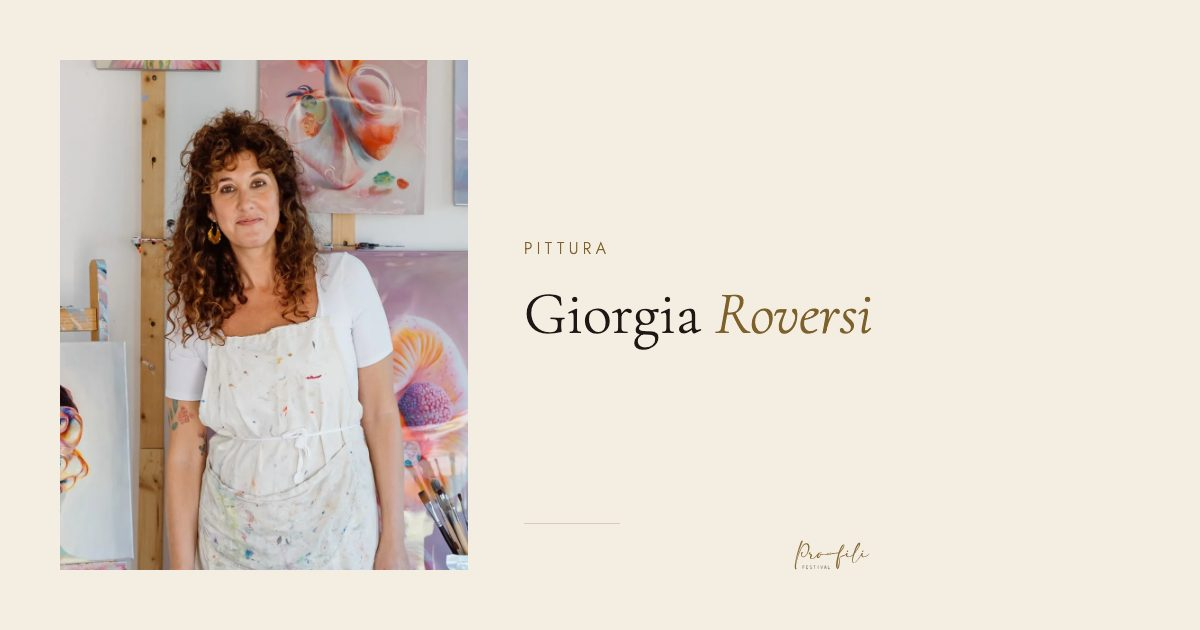
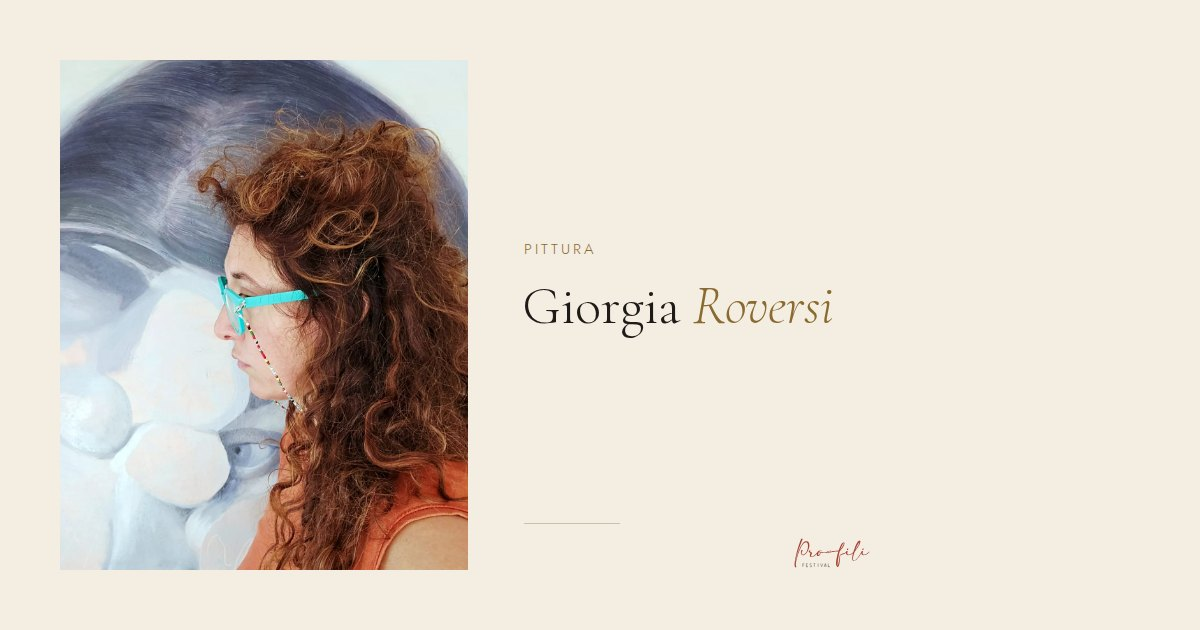
Giorgia Roversi: nuova foto di profilo (#44)
Claude-Session: https://claude.ai/code/session_01K8S9kDcMmADtdHMs7poTsz

diff --git a/assets/js/site.js b/assets/js/site.js
@@ -855,7 +855,7 @@
      sicurezza: senza JavaScript si vedono quelli. */
   var ALTRI = [
     {s:"mattia-signorini",n:"Mattia Signorini",r:"Scrittura",t:"Romanziere, tradotto in mezzo mondo.",i:"mattia-signorini.webp",ss:"mattia-signorini_sm.webp 800w, mattia-signorini.webp 1280w",a:"Ritratto di Mattia Signorini",w:1280,h:1600},
-    {s:"giorgia-roversi",n:"Giorgia Roversi",r:"Pittura",t:"Pittura dell'anatomia invisibile delle emozioni.",i:"giorgia-roversi.webp",ss:"giorgia-roversi_sm.webp 800w, giorgia-roversi.webp 906w",a:"Ritratto di Giorgia Roversi",w:906,h:1133},
+    {s:"giorgia-roversi",n:"Giorgia Roversi",r:"Pittura",t:"Pittura dell'anatomia invisibile delle emozioni.",i:"giorgia-roversi.webp",ss:"giorgia-roversi_sm.webp 800w, giorgia-roversi.webp 1280w",a:"Ritratto di Giorgia Roversi, di profilo",w:1280,h:1600},
     {s:"zentequerente",n:"Zentequerente",r:"Arti visive",t:"Disegno e segni raccolti: l'invisibile dentro il visibile.",i:"zentequerente.webp",ss:"zentequerente_sm.webp 800w, zentequerente.webp 1280w",a:"Ritratto di Zentequerente, di profilo",w:1280,h:1600},
     {s:"marcello-ubertone",n:"Marcello Ubertone",r:"Cantautorato",t:"Canzoni che raccontano storie, tra immaginazione e vita vera.",i:"marcello-ubertone.webp",ss:"marcello-ubertone_sm.webp 800w, marcello-ubertone.webp 1280w",a:"Ritratto di Marcello Ubertone, di profilo",w:1280,h:1600},
     {s:"anna-spazio-marangon",n:"Anna Spazio Marangon",r:"Arti visive · installazione",t:"Installazioni di fili e nodi, tra spazio e materia.",i:"anna-spazio-marangon.webp",ss:"anna-spazio-marangon_sm.webp 800w, anna-spazio-marangon.webp 1280w",a:"Ritratto di Anna Spazio Marangon, di profilo",w:1280,h:1600},

diff --git a/index.html b/index.html
@@ -140,7 +140,7 @@
         <p>Romanziere, tradotto in mezzo mondo.</p>
       </figure></a>
       <a class="person rv" data-tinta="viola" href="artisti/giorgia-roversi.html"><figure>
-        <div class="ph" data-knot="low"><img src="assets/img/giorgia-roversi.webp" srcset="assets/img/giorgia-roversi_sm.webp 800w, assets/img/giorgia-roversi.webp 906w" sizes="(max-width:640px) 46vw, (max-width:1000px) 30vw, 220px" alt="Ritratto di Giorgia Roversi" width="906" height="1133" loading="lazy"></div>
+        <div class="ph" data-knot="low"><img src="assets/img/giorgia-roversi.webp" srcset="assets/img/giorgia-roversi_sm.webp 800w, assets/img/giorgia-roversi.webp 1280w" sizes="(max-width:640px) 46vw, (max-width:1000px) 30vw, 220px" alt="Ritratto di Giorgia Roversi, di profilo" width="1280" height="1600" loading="lazy"></div>
         <h3>Giorgia Roversi</h3><p class="role">Pittura</p>
         <p>Pittura dell'anatomia invisibile delle emozioni.</p>
       </figure></a>

diff --git a/artisti/marcello-ubertone.html b/artisti/marcello-ubertone.html
@@ -111,7 +111,7 @@
     <div class="head rv"><div><p class="eyebrow">PRO-FILI Festival</p><h2>Gli altri <em>artisti</em></h2></div></div>
     <div class="people" data-altri-artisti>
       <a class="person rv" href="giorgia-roversi.html"><figure>
-        <div class="ph"><img src="../assets/img/giorgia-roversi.webp" srcset="../assets/img/giorgia-roversi_sm.webp 800w, ../assets/img/giorgia-roversi.webp 906w" sizes="(max-width:999px) 46vw, 280px" alt="Ritratto di Giorgia Roversi" width="906" height="1133" loading="lazy"></div>
+        <div class="ph"><img src="../assets/img/giorgia-roversi.webp" srcset="../assets/img/giorgia-roversi_sm.webp 800w, ../assets/img/giorgia-roversi.webp 1280w" sizes="(max-width:999px) 46vw, 280px" alt="Ritratto di Giorgia Roversi, di profilo" width="1280" height="1600" loading="lazy"></div>
         <h3>Giorgia Roversi</h3><p class="role">Pittura</p>
         <p>Pittura dell'anatomia invisibile delle emozioni.</p>
       </figure></a>

diff --git a/artisti/alessandro-alfonsi.html b/artisti/alessandro-alfonsi.html
@@ -120,7 +120,7 @@
         <p>Romanziere, tradotto in mezzo mondo.</p>
       </figure></a>
       <a class="person rv" href="giorgia-roversi.html"><figure>
-        <div class="ph"><img src="../assets/img/giorgia-roversi.webp" srcset="../assets/img/giorgia-roversi_sm.webp 800w, ../assets/img/giorgia-roversi.webp 906w" sizes="(max-width:999px) 46vw, 280px" alt="Ritratto di Giorgia Roversi" width="906" height="1133" loading="lazy"></div>
+        <div class="ph"><img src="../assets/img/giorgia-roversi.webp" srcset="../assets/img/giorgia-roversi_sm.webp 800w, ../assets/img/giorgia-roversi.webp 1280w" sizes="(max-width:999px) 46vw, 280px" alt="Ritratto di Giorgia Roversi, di profilo" width="1280" height="1600" loading="lazy"></div>
         <h3>Giorgia Roversi</h3><p class="role">Pittura</p>
         <p>Pittura dell'anatomia invisibile delle emozioni.</p>
       </figure></a>

diff --git a/artisti/anna-randolo.html b/artisti/anna-randolo.html
@@ -116,7 +116,7 @@
         <p>Romanziere, tradotto in mezzo mondo.</p>
       </figure></a>
       <a class="person rv" href="giorgia-roversi.html"><figure>
-        <div class="ph"><img src="../assets/img/giorgia-roversi.webp" srcset="../assets/img/giorgia-roversi_sm.webp 800w, ../assets/img/giorgia-roversi.webp 906w" sizes="(max-width:999px) 46vw, 280px" alt="Ritratto di Giorgia Roversi" width="906" height="1133" loading="lazy"></div>
+        <div class="ph"><img src="../assets/img/giorgia-roversi.webp" srcset="../assets/img/giorgia-roversi_sm.webp 800w, ../assets/img/giorgia-roversi.webp 1280w" sizes="(max-width:999px) 46vw, 280px" alt="Ritratto di Giorgia Roversi, di profilo" width="1280" height="1600" loading="lazy"></div>
         <h3>Giorgia Roversi</h3><p class="role">Pittura</p>
         <p>Pittura dell'anatomia invisibile delle emozioni.</p>
       </figure></a>

diff --git a/artisti/chiara-tosti.html b/artisti/chiara-tosti.html
@@ -136,7 +136,7 @@
         <p>Romanziere, tradotto in mezzo mondo.</p>
       </figure></a>
       <a class="person rv" href="giorgia-roversi.html"><figure>
-        <div class="ph"><img src="../assets/img/giorgia-roversi.webp" srcset="../assets/img/giorgia-roversi_sm.webp 800w, ../assets/img/giorgia-roversi.webp 906w" sizes="(max-width:999px) 46vw, 280px" alt="Ritratto di Giorgia Roversi" width="906" height="1133" loading="lazy"></div>
+        <div class="ph"><img src="../assets/img/giorgia-roversi.webp" srcset="../assets/img/giorgia-roversi_sm.webp 800w, ../assets/img/giorgia-roversi.webp 1280w" sizes="(max-width:999px) 46vw, 280px" alt="Ritratto di Giorgia Roversi, di profilo" width="1280" height="1600" loading="lazy"></div>
         <h3>Giorgia Roversi</h3><p class="role">Pittura</p>
         <p>Pittura dell'anatomia invisibile delle emozioni.</p>
       </figure></a>

diff --git a/artisti/elia-pellegrini.html b/artisti/elia-pellegrini.html
@@ -120,7 +120,7 @@
         <p>Romanziere, tradotto in mezzo mondo.</p>
       </figure></a>
       <a class="person rv" href="giorgia-roversi.html"><figure>
-        <div class="ph"><img src="../assets/img/giorgia-roversi.webp" srcset="../assets/img/giorgia-roversi_sm.webp 800w, ../assets/img/giorgia-roversi.webp 906w" sizes="(max-width:999px) 46vw, 280px" alt="Ritratto di Giorgia Roversi" width="906" height="1133" loading="lazy"></div>
+        <div class="ph"><img src="../assets/img/giorgia-roversi.webp" srcset="../assets/img/giorgia-roversi_sm.webp 800w, ../assets/img/giorgia-roversi.webp 1280w" sizes="(max-width:999px) 46vw, 280px" alt="Ritratto di Giorgia Roversi, di profilo" width="1280" height="1600" loading="lazy"></div>
         <h3>Giorgia Roversi</h3><p class="role">Pittura</p>
         <p>Pittura dell'anatomia invisibile delle emozioni.</p>
       </figure></a>

diff --git a/artisti/filo.html b/artisti/filo.html
@@ -119,7 +119,7 @@
         <p>Romanziere, tradotto in mezzo mondo.</p>
       </figure></a>
       <a class="person rv" href="giorgia-roversi.html"><figure>
-        <div class="ph"><img src="../assets/img/giorgia-roversi.webp" srcset="../assets/img/giorgia-roversi_sm.webp 800w, ../assets/img/giorgia-roversi.webp 906w" sizes="(max-width:999px) 46vw, 280px" alt="Ritratto di Giorgia Roversi" width="906" height="1133" loading="lazy"></div>
+        <div class="ph"><img src="../assets/img/giorgia-roversi.webp" srcset="../assets/img/giorgia-roversi_sm.webp 800w, ../assets/img/giorgia-roversi.webp 1280w" sizes="(max-width:999px) 46vw, 280px" alt="Ritratto di Giorgia Roversi, di profilo" width="1280" height="1600" loading="lazy"></div>
         <h3>Giorgia Roversi</h3><p class="role">Pittura</p>
         <p>Pittura dell'anatomia invisibile delle emozioni.</p>
       </figure></a>

diff --git a/artisti/francesca-de-simone.html b/artisti/francesca-de-simone.html
@@ -120,7 +120,7 @@
         <p>Romanziere, tradotto in mezzo mondo.</p>
       </figure></a>
       <a class="person rv" href="giorgia-roversi.html"><figure>
-        <div class="ph"><img src="../assets/img/giorgia-roversi.webp" srcset="../assets/img/giorgia-roversi_sm.webp 800w, ../assets/img/giorgia-roversi.webp 906w" sizes="(max-width:999px) 46vw, 280px" alt="Ritratto di Giorgia Roversi" width="906" height="1133" loading="lazy"></div>
+        <div class="ph"><img src="../assets/img/giorgia-roversi.webp" srcset="../assets/img/giorgia-roversi_sm.webp 800w, ../assets/img/giorgia-roversi.webp 1280w" sizes="(max-width:999px) 46vw, 280px" alt="Ritratto di Giorgia Roversi, di profilo" width="1280" height="1600" loading="lazy"></div>
         <h3>Giorgia Roversi</h3><p class="role">Pittura</p>
         <p>Pittura dell'anatomia invisibile delle emozioni.</p>
       </figure></a>

diff --git a/artisti/massimo-marchioro.html b/artisti/massimo-marchioro.html
@@ -114,7 +114,7 @@
         <p>Romanziere, tradotto in mezzo mondo.</p>
       </figure></a>
       <a class="person rv" href="giorgia-roversi.html"><figure>
-        <div class="ph"><img src="../assets/img/giorgia-roversi.webp" srcset="../assets/img/giorgia-roversi_sm.webp 800w, ../assets/img/giorgia-roversi.webp 906w" sizes="(max-width:999px) 46vw, 280px" alt="Ritratto di Giorgia Roversi" width="906" height="1133" loading="lazy"></div>
+        <div class="ph"><img src="../assets/img/giorgia-roversi.webp" srcset="../assets/img/giorgia-roversi_sm.webp 800w, ../assets/img/giorgia-roversi.webp 1280w" sizes="(max-width:999px) 46vw, 280px" alt="Ritratto di Giorgia Roversi, di profilo" width="1280" height="1600" loading="lazy"></div>
         <h3>Giorgia Roversi</h3><p class="role">Pittura</p>
         <p>Pittura dell'anatomia invisibile delle emozioni.</p>
       </figure></a>

diff --git a/artisti/salsa-wasabbee.html b/artisti/salsa-wasabbee.html
@@ -119,7 +119,7 @@
         <p>Romanziere, tradotto in mezzo mondo.</p>
       </figure></a>
       <a class="person rv" href="giorgia-roversi.html"><figure>
-        <div class="ph"><img src="../assets/img/giorgia-roversi.webp" srcset="../assets/img/giorgia-roversi_sm.webp 800w, ../assets/img/giorgia-roversi.webp 906w" sizes="(max-width:999px) 46vw, 280px" alt="Ritratto di Giorgia Roversi" width="906" height="1133" loading="lazy"></div>
+        <div class="ph"><img src="../assets/img/giorgia-roversi.webp" srcset="../assets/img/giorgia-roversi_sm.webp 800w, ../assets/img/giorgia-roversi.webp 1280w" sizes="(max-width:999px) 46vw, 280px" alt="Ritratto di Giorgia Roversi, di profilo" width="1280" height="1600" loading="lazy"></div>
         <h3>Giorgia Roversi</h3><p class="role">Pittura</p>
         <p>Pittura dell'anatomia invisibile delle emozioni.</p>
       </figure></a>

diff --git a/artisti/salvatore-passalacqua.html b/artisti/salvatore-passalacqua.html
@@ -121,7 +121,7 @@
         <p>Romanziere, tradotto in mezzo mondo.</p>
       </figure></a>
       <a class="person rv" href="giorgia-roversi.html"><figure>
-        <div class="ph"><img src="../assets/img/giorgia-roversi.webp" srcset="../assets/img/giorgia-roversi_sm.webp 800w, ../assets/img/giorgia-roversi.webp 906w" sizes="(max-width:999px) 46vw, 280px" alt="Ritratto di Giorgia Roversi" width="906" height="1133" loading="lazy"></div>
+        <div class="ph"><img src="../assets/img/giorgia-roversi.webp" srcset="../assets/img/giorgia-roversi_sm.webp 800w, ../assets/img/giorgia-roversi.webp 1280w" sizes="(max-width:999px) 46vw, 280px" alt="Ritratto di Giorgia Roversi, di profilo" width="1280" height="1600" loading="lazy"></div>
         <h3>Giorgia Roversi</h3><p class="role">Pittura</p>
         <p>Pittura dell'anatomia invisibile delle emozioni.</p>
       </figure></a>
